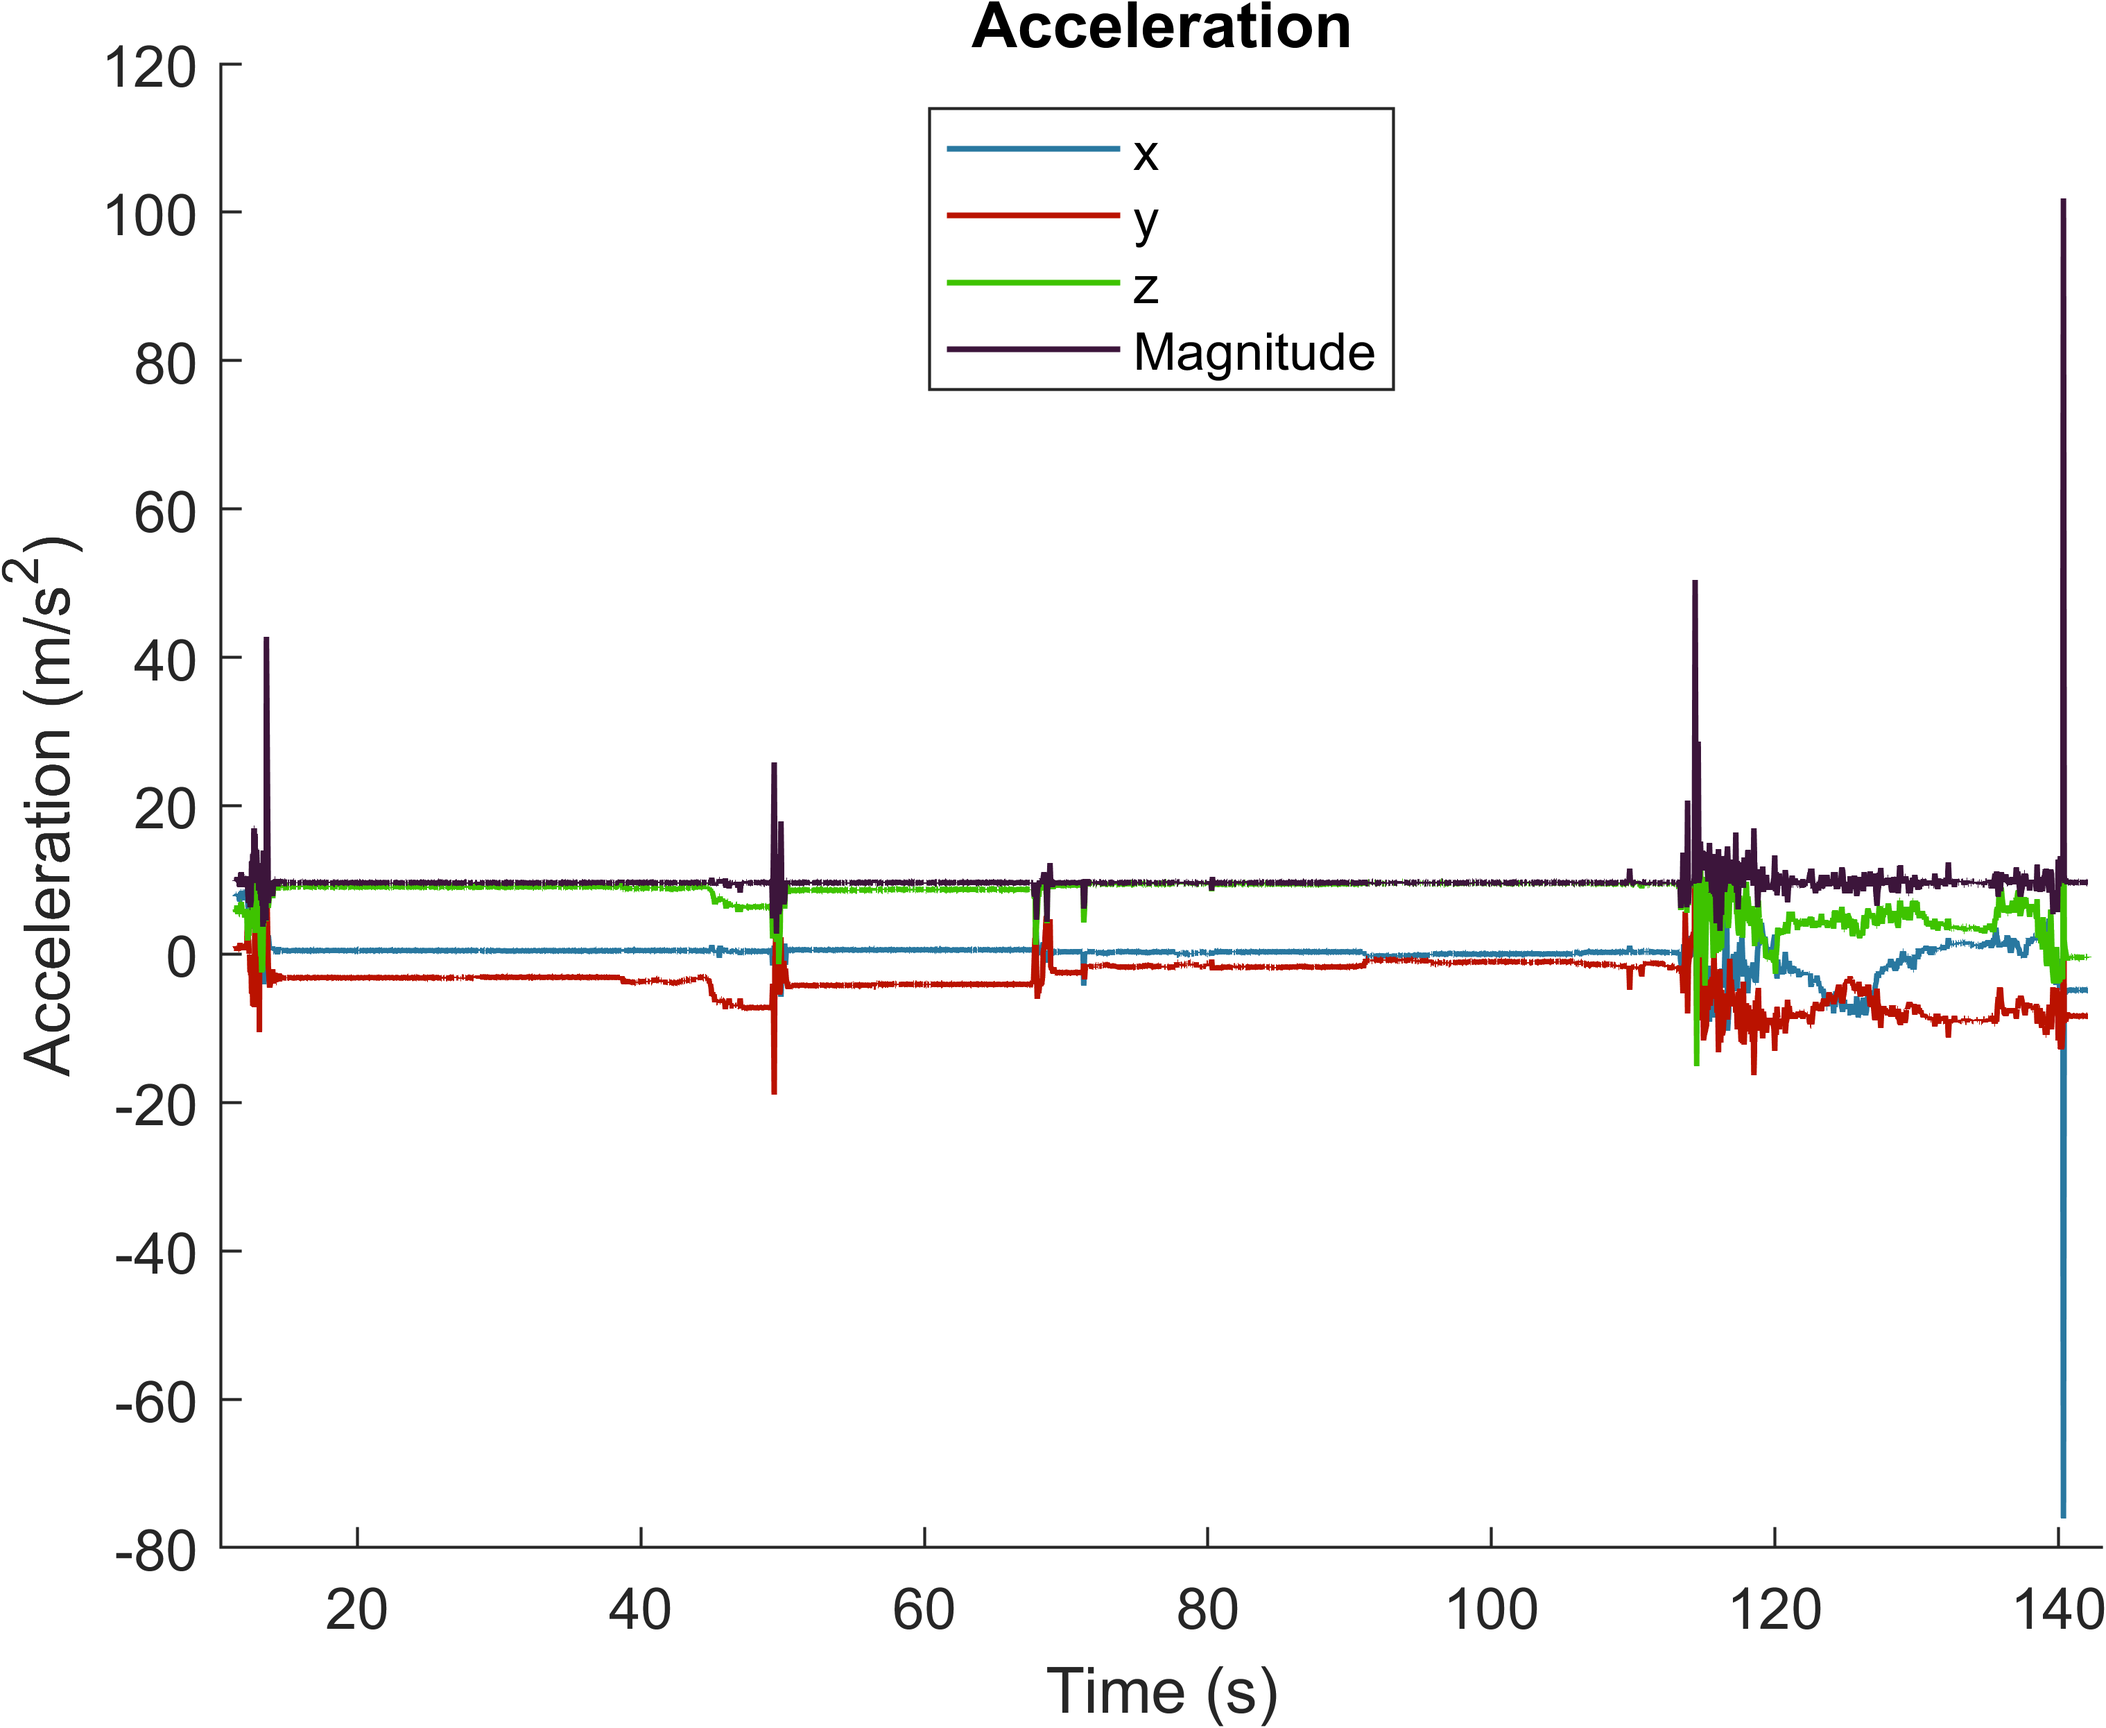
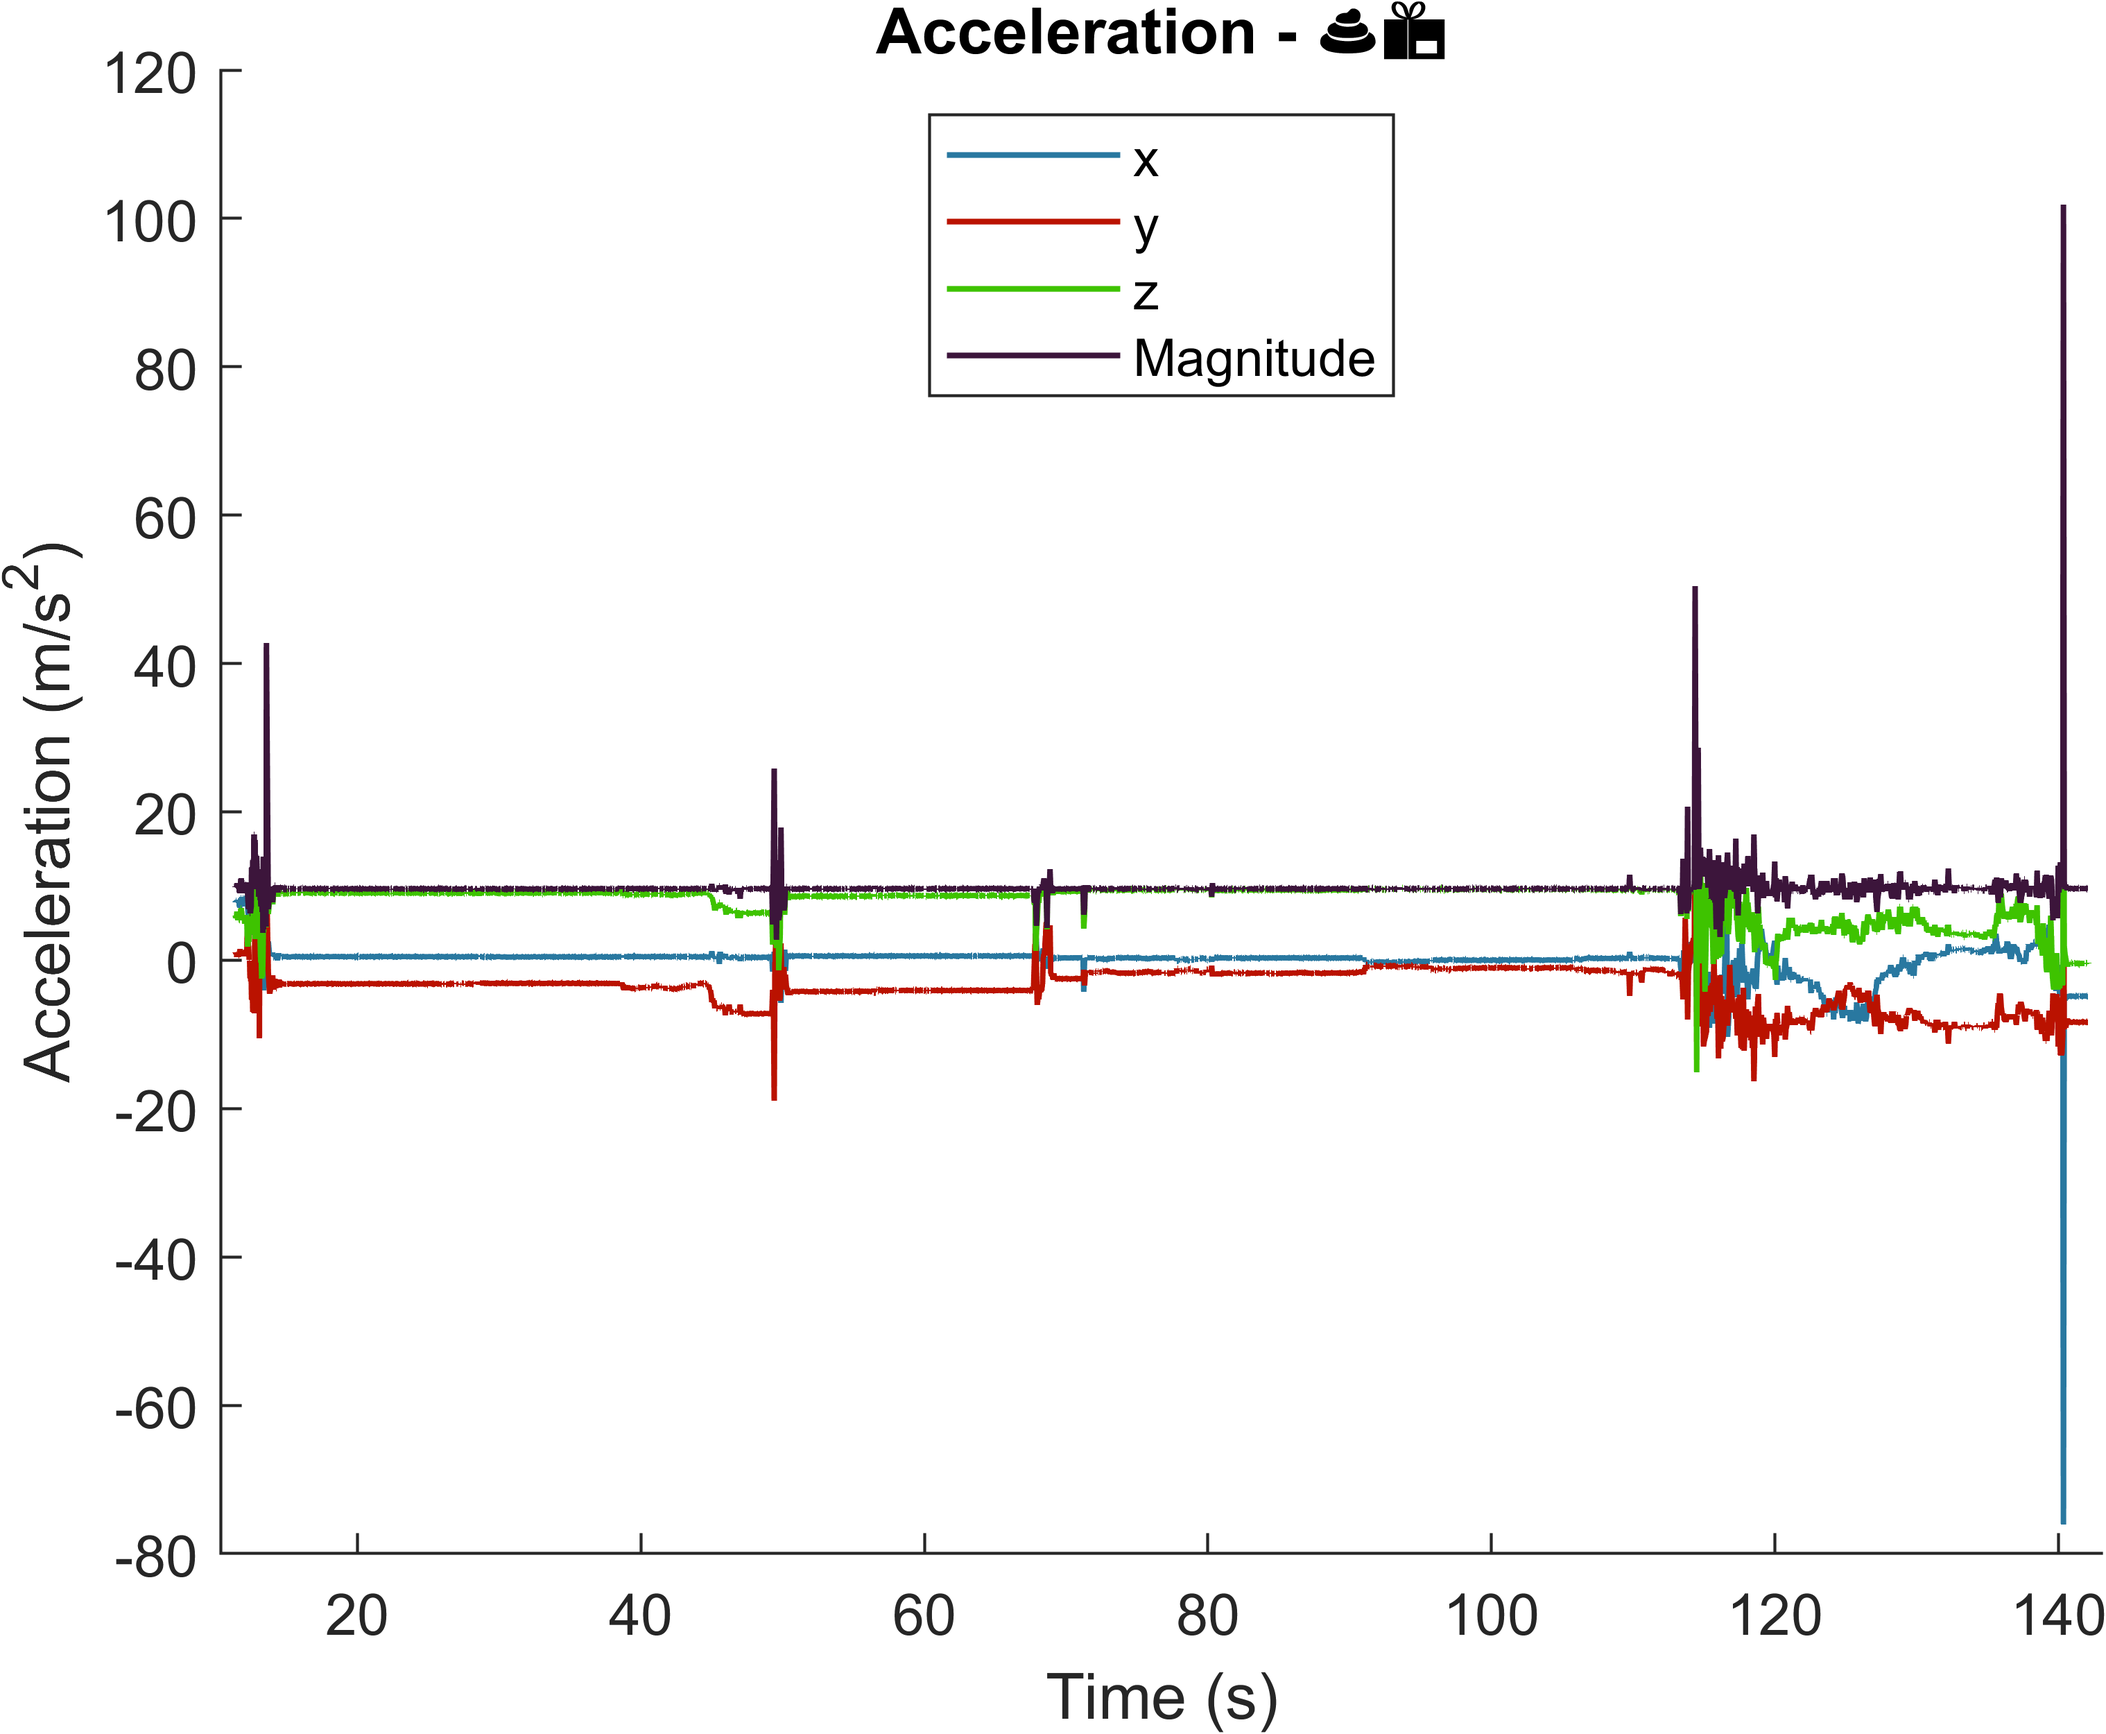
pnut plots

diff --git a/astra.m b/astra.m
@@ -53,9 +53,9 @@ exportgraphics(gcf, sprintf('%s_rotation.png', launch), 'Resolution', 600);
 
 figure
 plot(t, pressure, 'LineWidth', lw, 'Color', col1)
-title('Pressure')
+title('Pressure - 💩📦')
 xlabel('Time(s)')
-ylabel('Pressure (Pa) - 💩📦')
+ylabel('Pressure (Pa)')
 xlim([(min(t)-1), (max(t)+1)])
 exportgraphics(gcf, sprintf('%s_pressure.png', launch), 'Resolution', 600);
 
@@ -95,7 +95,6 @@ plot(t, altitude, 'LineWidth', lw, 'Color', col1)
 title('Altitude AGL - Pnut')
 xlabel('Time(s)')
 ylabel('Altitude (m)')
-xlim([(min(t)-1), (max(t)+1)])
 exportgraphics(gcf, sprintf('%s_altitude_pnut.png', launch), 'Resolution', 600);
 
 figure
@@ -103,7 +102,6 @@ plot(t, vel, 'LineWidth', lw, 'Color', col2)
 title('Velocity - Pnut')
 xlabel('Time(s)')
 ylabel('Velocity (m/s)')
-xlim([(min(t)-1), (max(t)+1)])
 exportgraphics(gcf, sprintf('%s_velocity_pnut.png', launch), 'Resolution', 600);
 
 figure
@@ -111,5 +109,6 @@ plot(t, temp, 'LineWidth', lw, 'Color', col3)
 title('Temperature - Pnut')
 xlabel('Time(s)')
 ylabel('Velocity (m/s)')
-xlim([(min(t)-1), (max(t)+1)])
 exportgraphics(gcf, sprintf('%s_temperature_pnut.png', launch), 'Resolution', 600);
+
+
